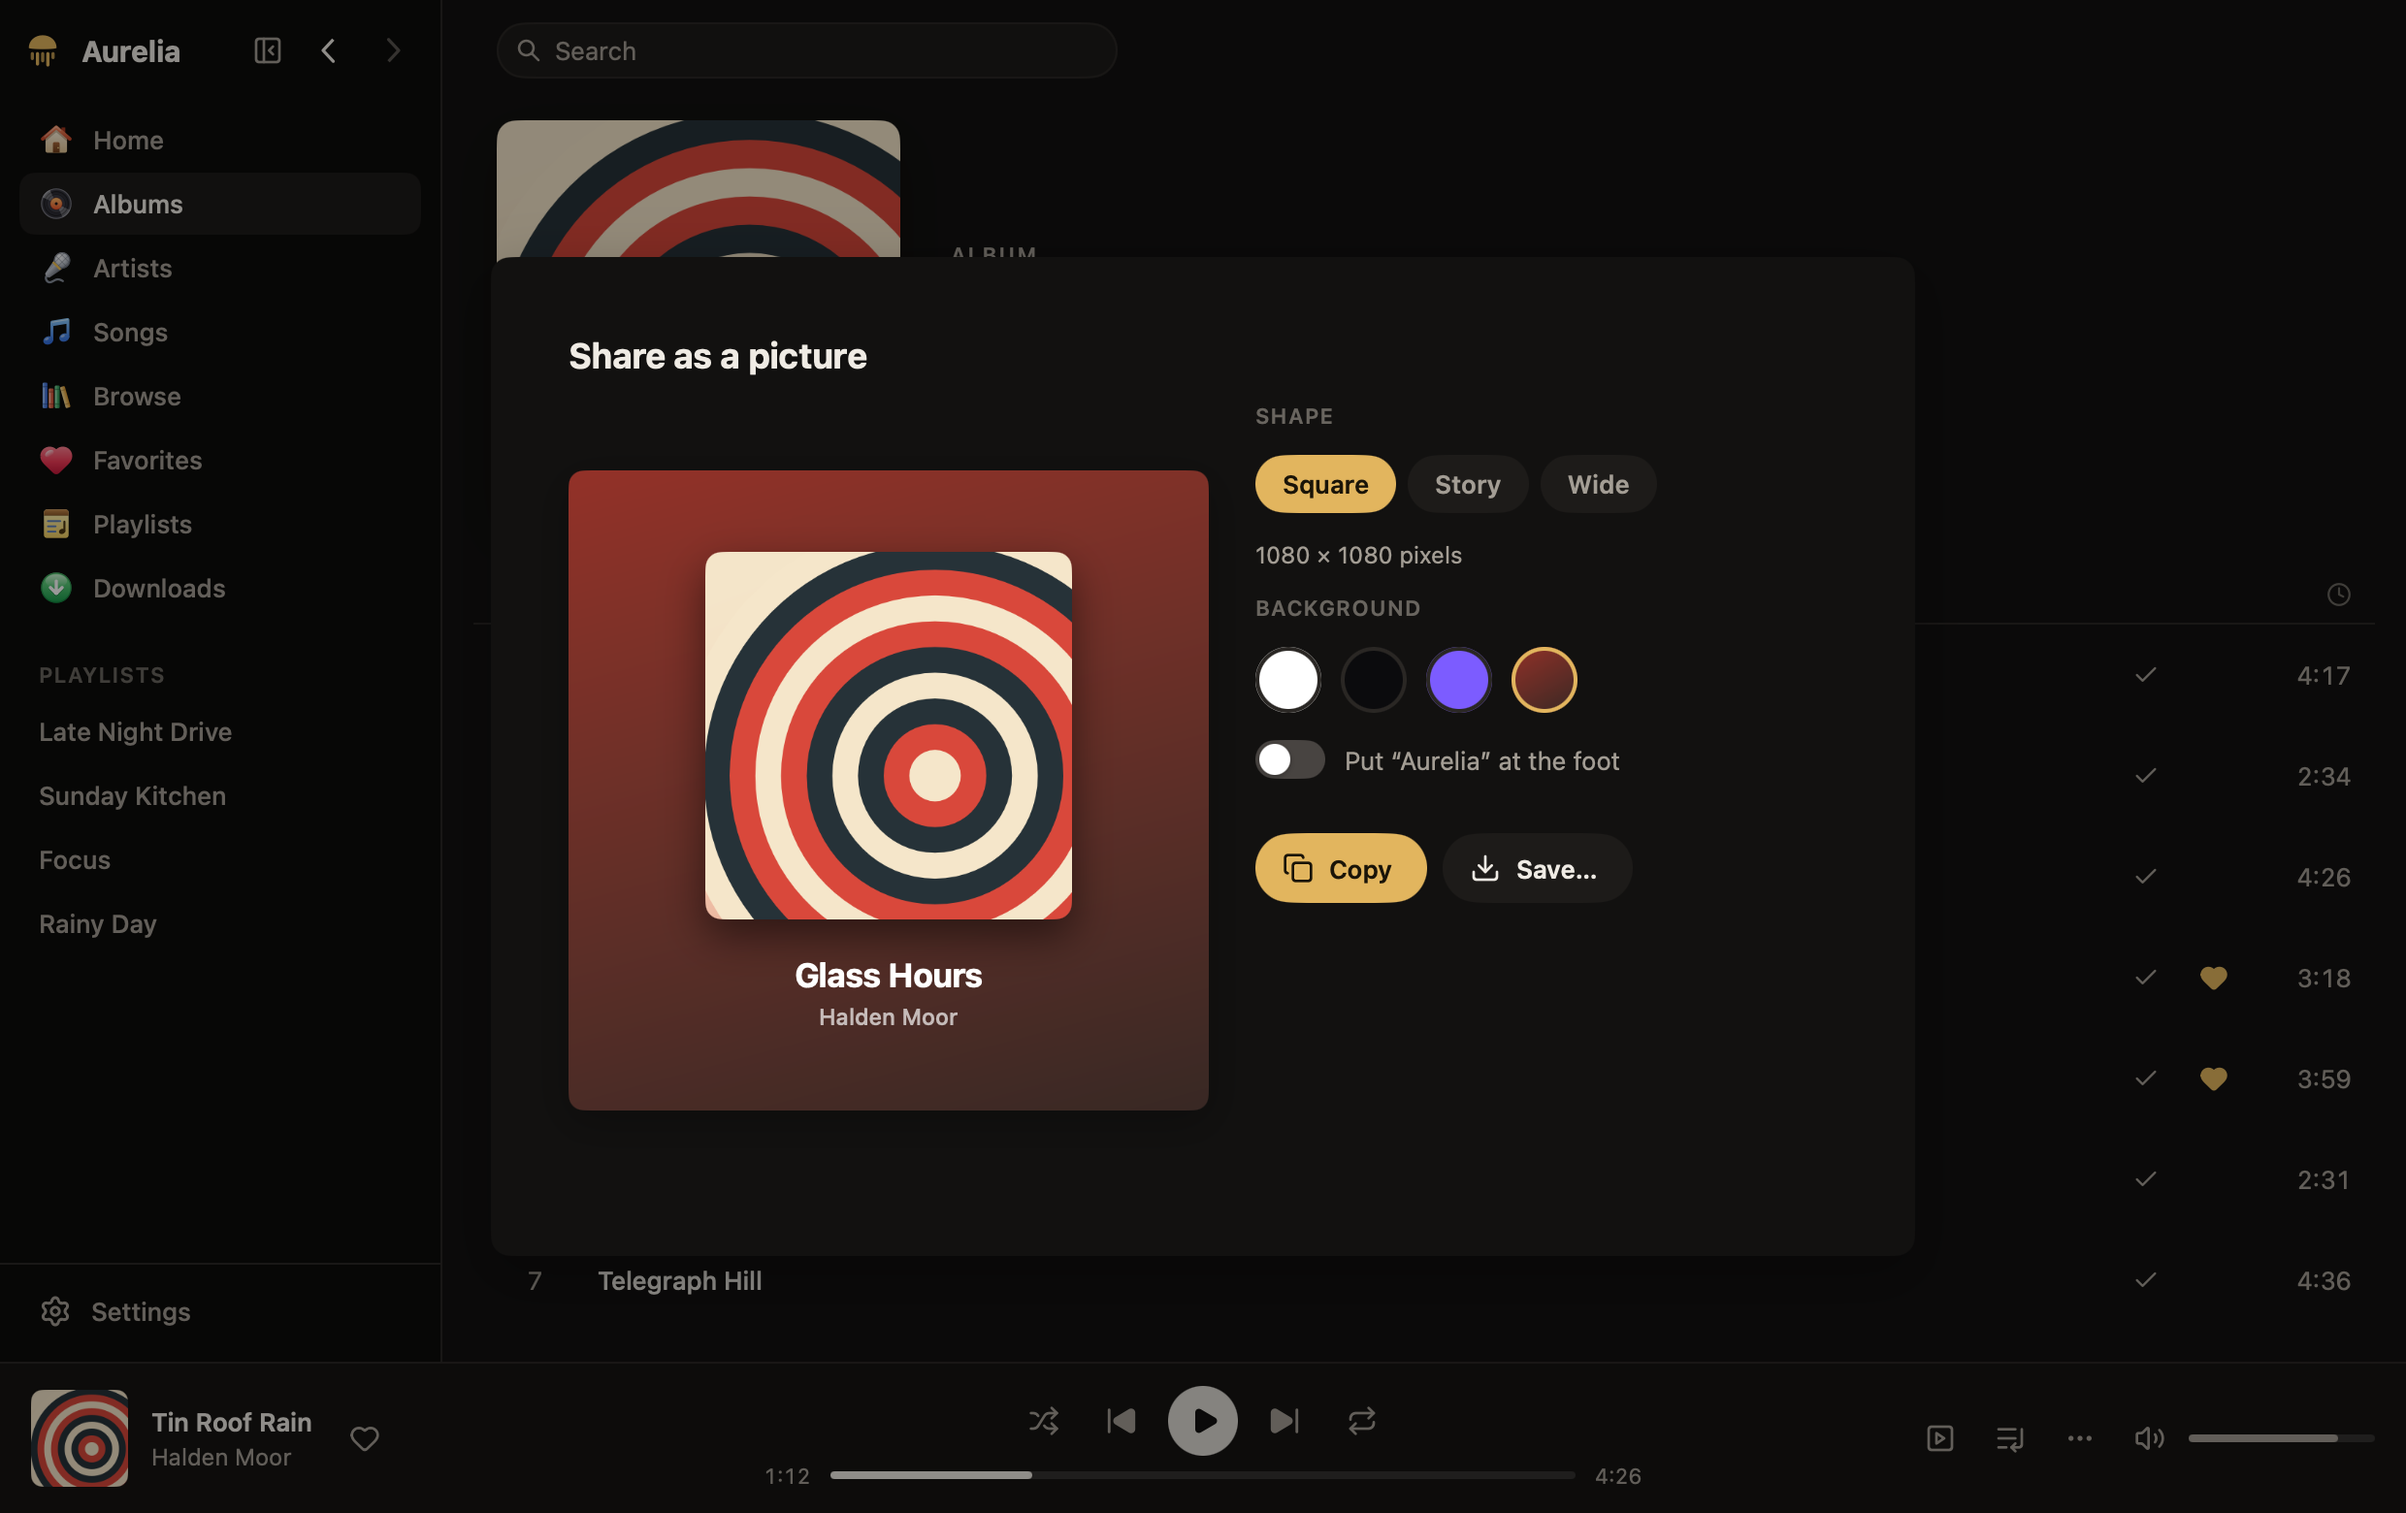
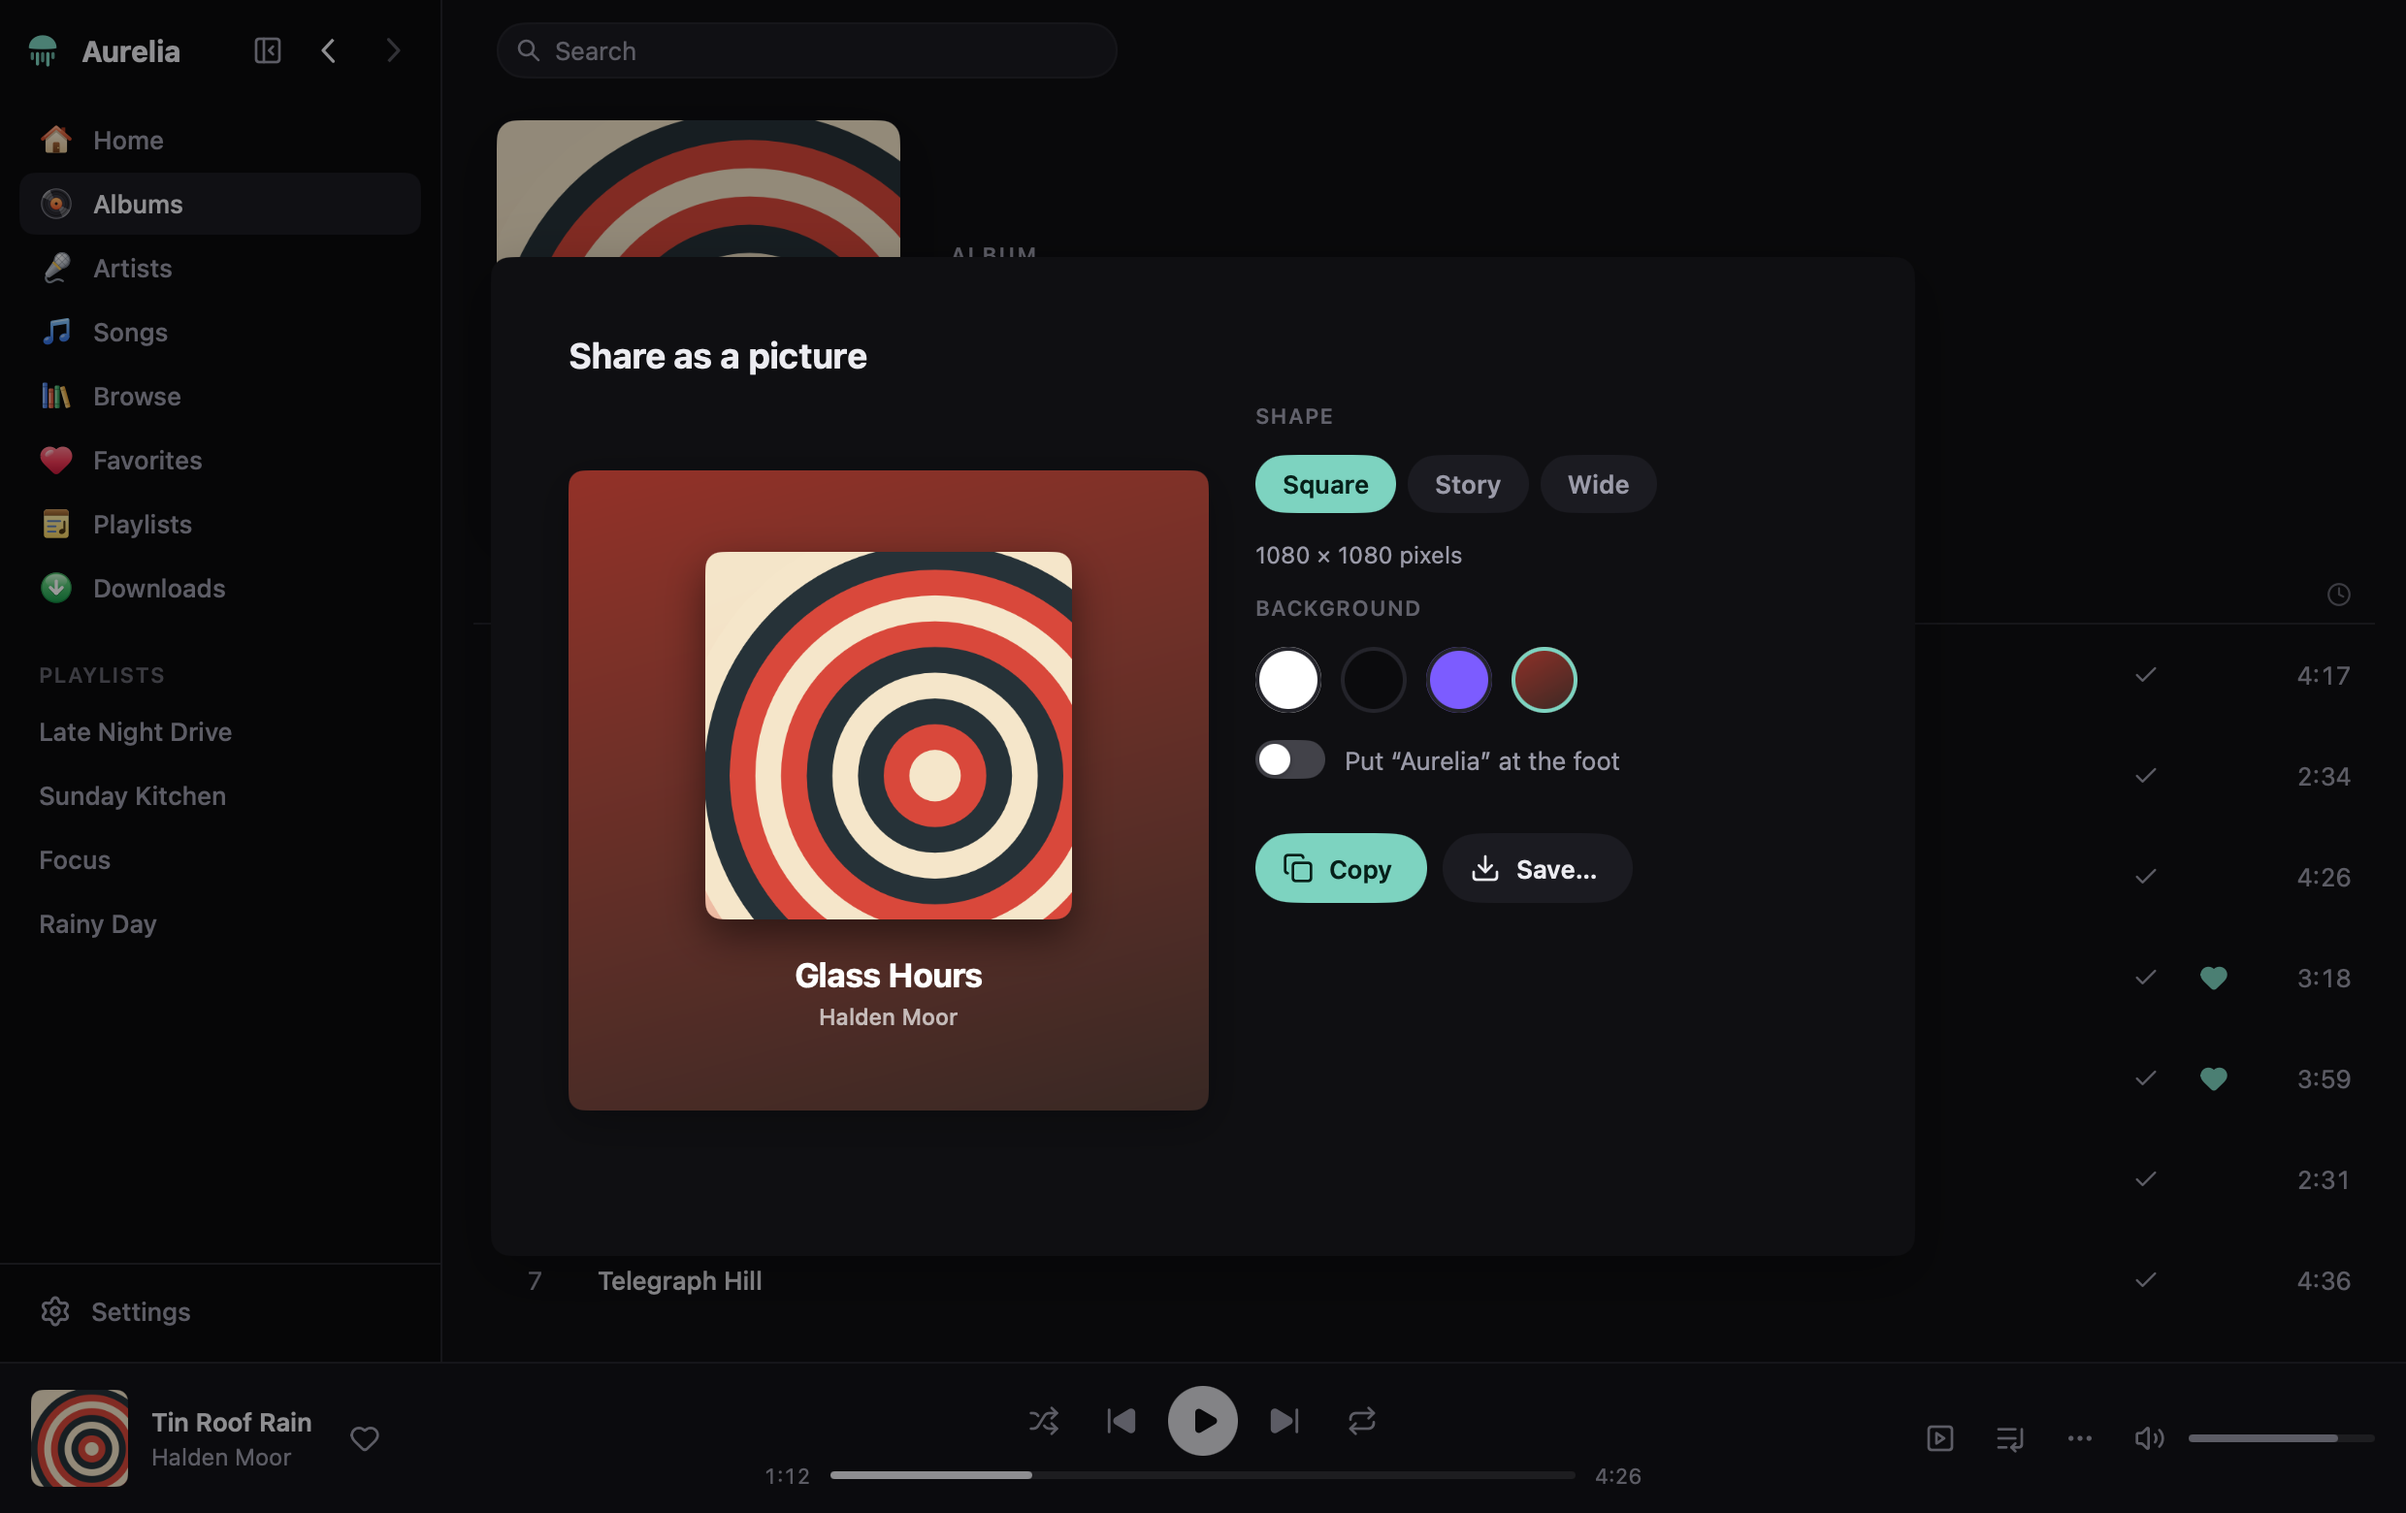
Aurelia's own themes are sea glass, not gold
The gold read badly. Aurelia Dark and Aurelia Light take a sea-glass teal
instead, the water of the moon jellyfish the app is named after, on the
neutral near-black and white the lavender had: #7dd3c0 on dark (10.9:1)
and #0b7468 on light (5.7:1, white on it the same). Themes that name no
accent take it too. The lavender stays as Lavender and Lavender Light;
the README's screenshots are drawn again.

Changed region(s): [[0.4968, 0.5538, 0.5899, 0.6154], [0.4968, 0.2769, 0.5899, 0.3385], [0.9004, 0.7077, 0.9315, 0.7385]]

diff --git a/internal/theme/store.go b/internal/theme/store.go
@@ -18,18 +18,19 @@ func spec(name, kind string, kv ...string) Spec {
 }
 
 // builtIn are the themes that come with Aurelia. Aurelia's own, which
-// "Match the system" shows, are gold, as the name is, on warm near-black
-// and warm white: the covers bring the other colors.
+// "Match the system" shows, are sea glass, the water of the moon jellyfish
+// the app is named after, on neutral near-black and white: the covers
+// bring the other colors.
 var builtIn = []Spec{
 	spec("Aurelia Dark", "dark",
-		"background", "#121110", "sidebar", "#0c0b0a", "bar", "#151413", "surface", "#1d1b19", "surfaceHover", "#282522",
-		"border", "#2a2724", "text", "#efebe4", "textMuted", "#a39d94", "accent", "#e2b55e", "accentText", "#1a1408",
-		"selection", "#3a3020"),
+		"background", "#0f0f12", "sidebar", "#0a0a0c", "bar", "#131317", "surface", "#1b1b21", "surfaceHover", "#25252d",
+		"border", "#24242b", "text", "#ececf1", "textMuted", "#9a9aa8", "accent", "#7dd3c0", "accentText", "#062019",
+		"selection", "#16302b"),
 	spec("Aurelia Light", "light",
-		"background", "#fdfcfa", "sidebar", "#f6f4ef", "bar", "#faf9f6", "surface", "#f1eee8", "surfaceHover", "#e8e4dc",
-		"border", "#e5e1d8", "text", "#1c1a17", "textMuted", "#68625a", "accent", "#835a00", "accentText", "#ffffff",
-		"selection", "#f2e6c9"),
-	// Lavender and Lavender Light were Aurelia's own before the gold.
+		"background", "#ffffff", "sidebar", "#f6f6f8", "bar", "#fbfbfc", "surface", "#f1f1f4", "surfaceHover", "#e7e7ec",
+		"border", "#e4e4ea", "text", "#17171c", "textMuted", "#6b6b78", "accent", "#0b7468", "accentText", "#ffffff",
+		"selection", "#d4efe9"),
+	// Lavender and Lavender Light were Aurelia's own before the sea glass.
 	spec("Lavender", "dark",
 		"background", "#0f0f12", "sidebar", "#0a0a0c", "bar", "#131317", "surface", "#1b1b21", "surfaceHover", "#25252d",
 		"border", "#24242b", "text", "#ececf1", "textMuted", "#9a9aa8", "accent", "#a48cff", "accentText", "#100e1a",
@@ -93,8 +94,8 @@ var builtIn = []Spec{
 // those were the IDs of the lavender themes, which whoever chose one
 // keeps.
 const (
-	DefaultDark  = "aurelia-gold-dark"
-	DefaultLight = "aurelia-gold-light"
+	DefaultDark  = "aurelia-sea-dark"
+	DefaultLight = "aurelia-sea-light"
 )
 
 // ids are the IDs of the themes built in whose ID is not the slug of
@@ -106,7 +107,7 @@ var moved = map[string]string{"aurelia-dark": "lavender", "aurelia-light": "lave
 
 // Migrate returns the ID that a theme saved as id has now: "aurelia-dark"
 // and "aurelia-light" were the lavender themes, before Aurelia's own
-// turned gold.
+// turned sea glass.
 func Migrate(id string) string {
 	if to, ok := moved[id]; ok {
 		return to

diff --git a/internal/theme/theme_test.go b/internal/theme/theme_test.go
@@ -63,7 +63,7 @@ func TestBuiltInThemesAreReadable(t *testing.T) {
 	}
 }
 
-// Aurelia's own themes are gold; the lavender they were stays, for
+// Aurelia's own themes are sea glass; the lavender they were stays, for
 // whoever chose it, under its own name.
 func TestDefaultThemes(t *testing.T) {
 	s := NewStore(t.TempDir())
@@ -71,8 +71,8 @@ func TestDefaultThemes(t *testing.T) {
 		name, accent, accentText string
 		dark                     bool
 	}{
-		DefaultDark:      {"Aurelia Dark", "#e2b55e", "#1a1408", true},
-		DefaultLight:     {"Aurelia Light", "#835a00", "#ffffff", false},
+		DefaultDark:      {"Aurelia Dark", "#7dd3c0", "#062019", true},
+		DefaultLight:     {"Aurelia Light", "#0b7468", "#ffffff", false},
 		"lavender":       {"Lavender", "#a48cff", "#100e1a", true},
 		"lavender-light": {"Lavender Light", "#6d4fe0", "#ffffff", false},
 	} {
@@ -98,7 +98,7 @@ func TestDefaultThemes(t *testing.T) {
 		}
 	}
 	// A theme that names no accent has Aurelia's.
-	if a := Resolve(Spec{Type: "dark"}).Accent.Hex(); a != "#e2b55e" {
+	if a := Resolve(Spec{Type: "dark"}).Accent.Hex(); a != "#7dd3c0" {
 		t.Errorf("the accent of a theme without one is %s", a)
 	}
 }

diff --git a/internal/theme/theme.go b/internal/theme/theme.go
@@ -140,10 +140,10 @@ func Resolve(s Spec) *Theme {
 	}
 	t.TextFaint = Mix(t.TextMuted, bg, 0.4)
 
-	// Aurelia's gold, unless the theme has an accent of its own.
-	accent := Color{226, 181, 94, 255}
+	// Aurelia's sea glass, unless the theme has an accent of its own.
+	accent := Color{125, 211, 192, 255}
 	if !t.Dark {
-		accent = Color{131, 90, 0, 255}
+		accent = Color{11, 116, 104, 255}
 	}
 	if c, ok := get("accent"); ok {
 		// An accent that does not show on the background is none.

diff --git a/TODO.md b/TODO.md
@@ -36,8 +36,8 @@ app, so each stays here until it is.
       the device to play on), volume.
 - [ ] A small window keeps the album's buttons on one line, the song's
       name whole, and Shuffle in reach.
-- [ ] Gold themes by default, the lavender kept as Lavender. The app's
-      icon is still purple: to decide.
+- [ ] Sea glass themes by default, the lavender kept as Lavender. The
+      app's icon is still purple: to decide.
 
 ### Playing like Spotify
 
